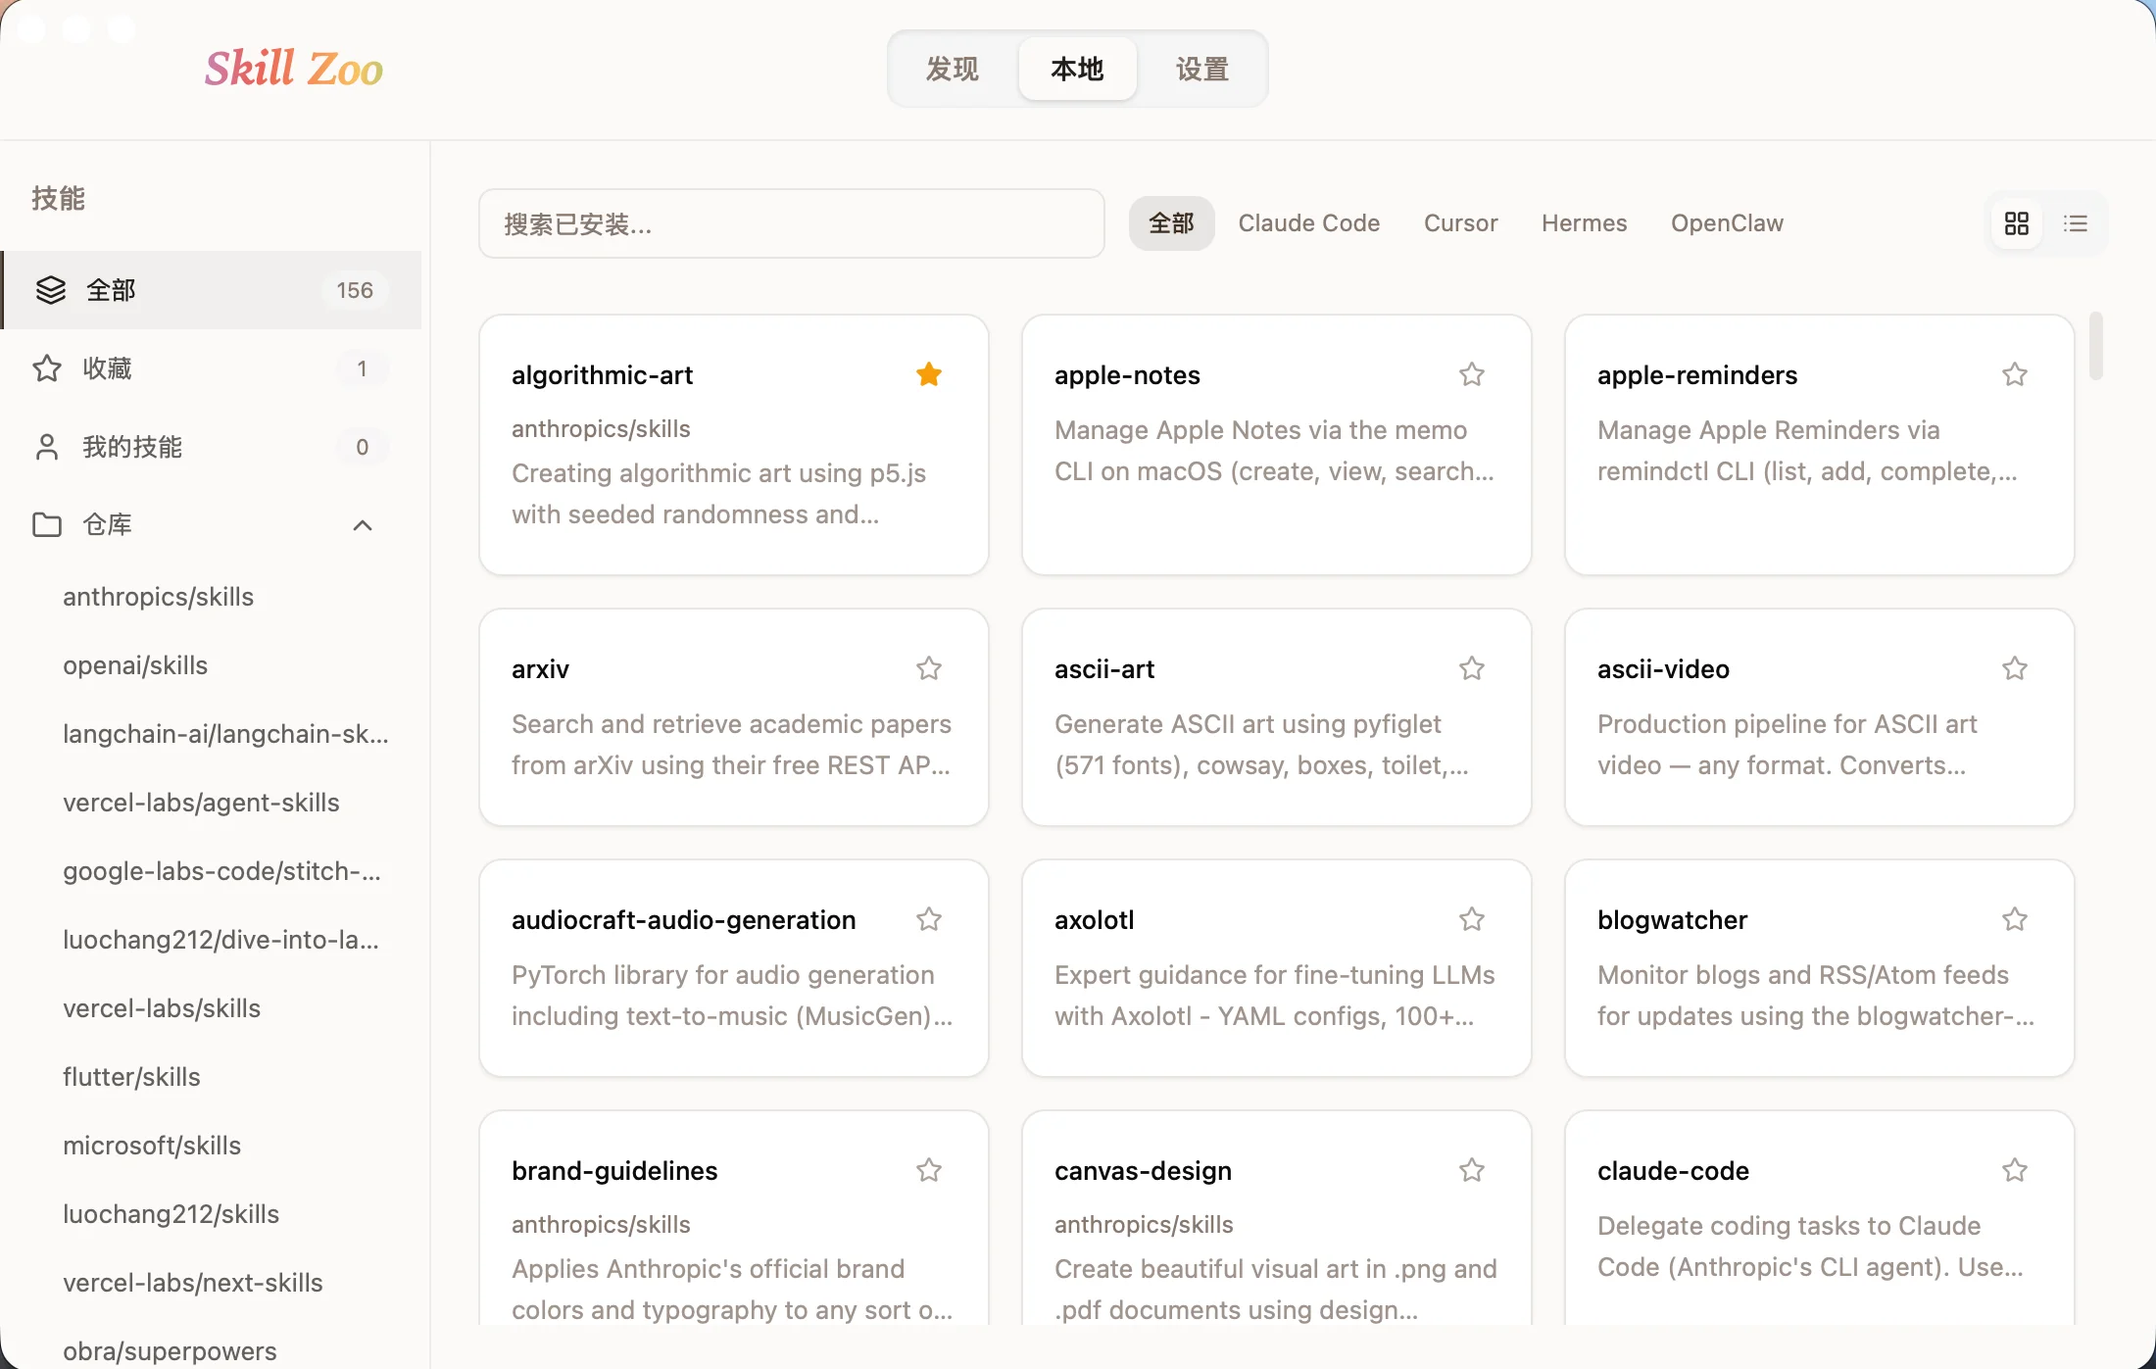
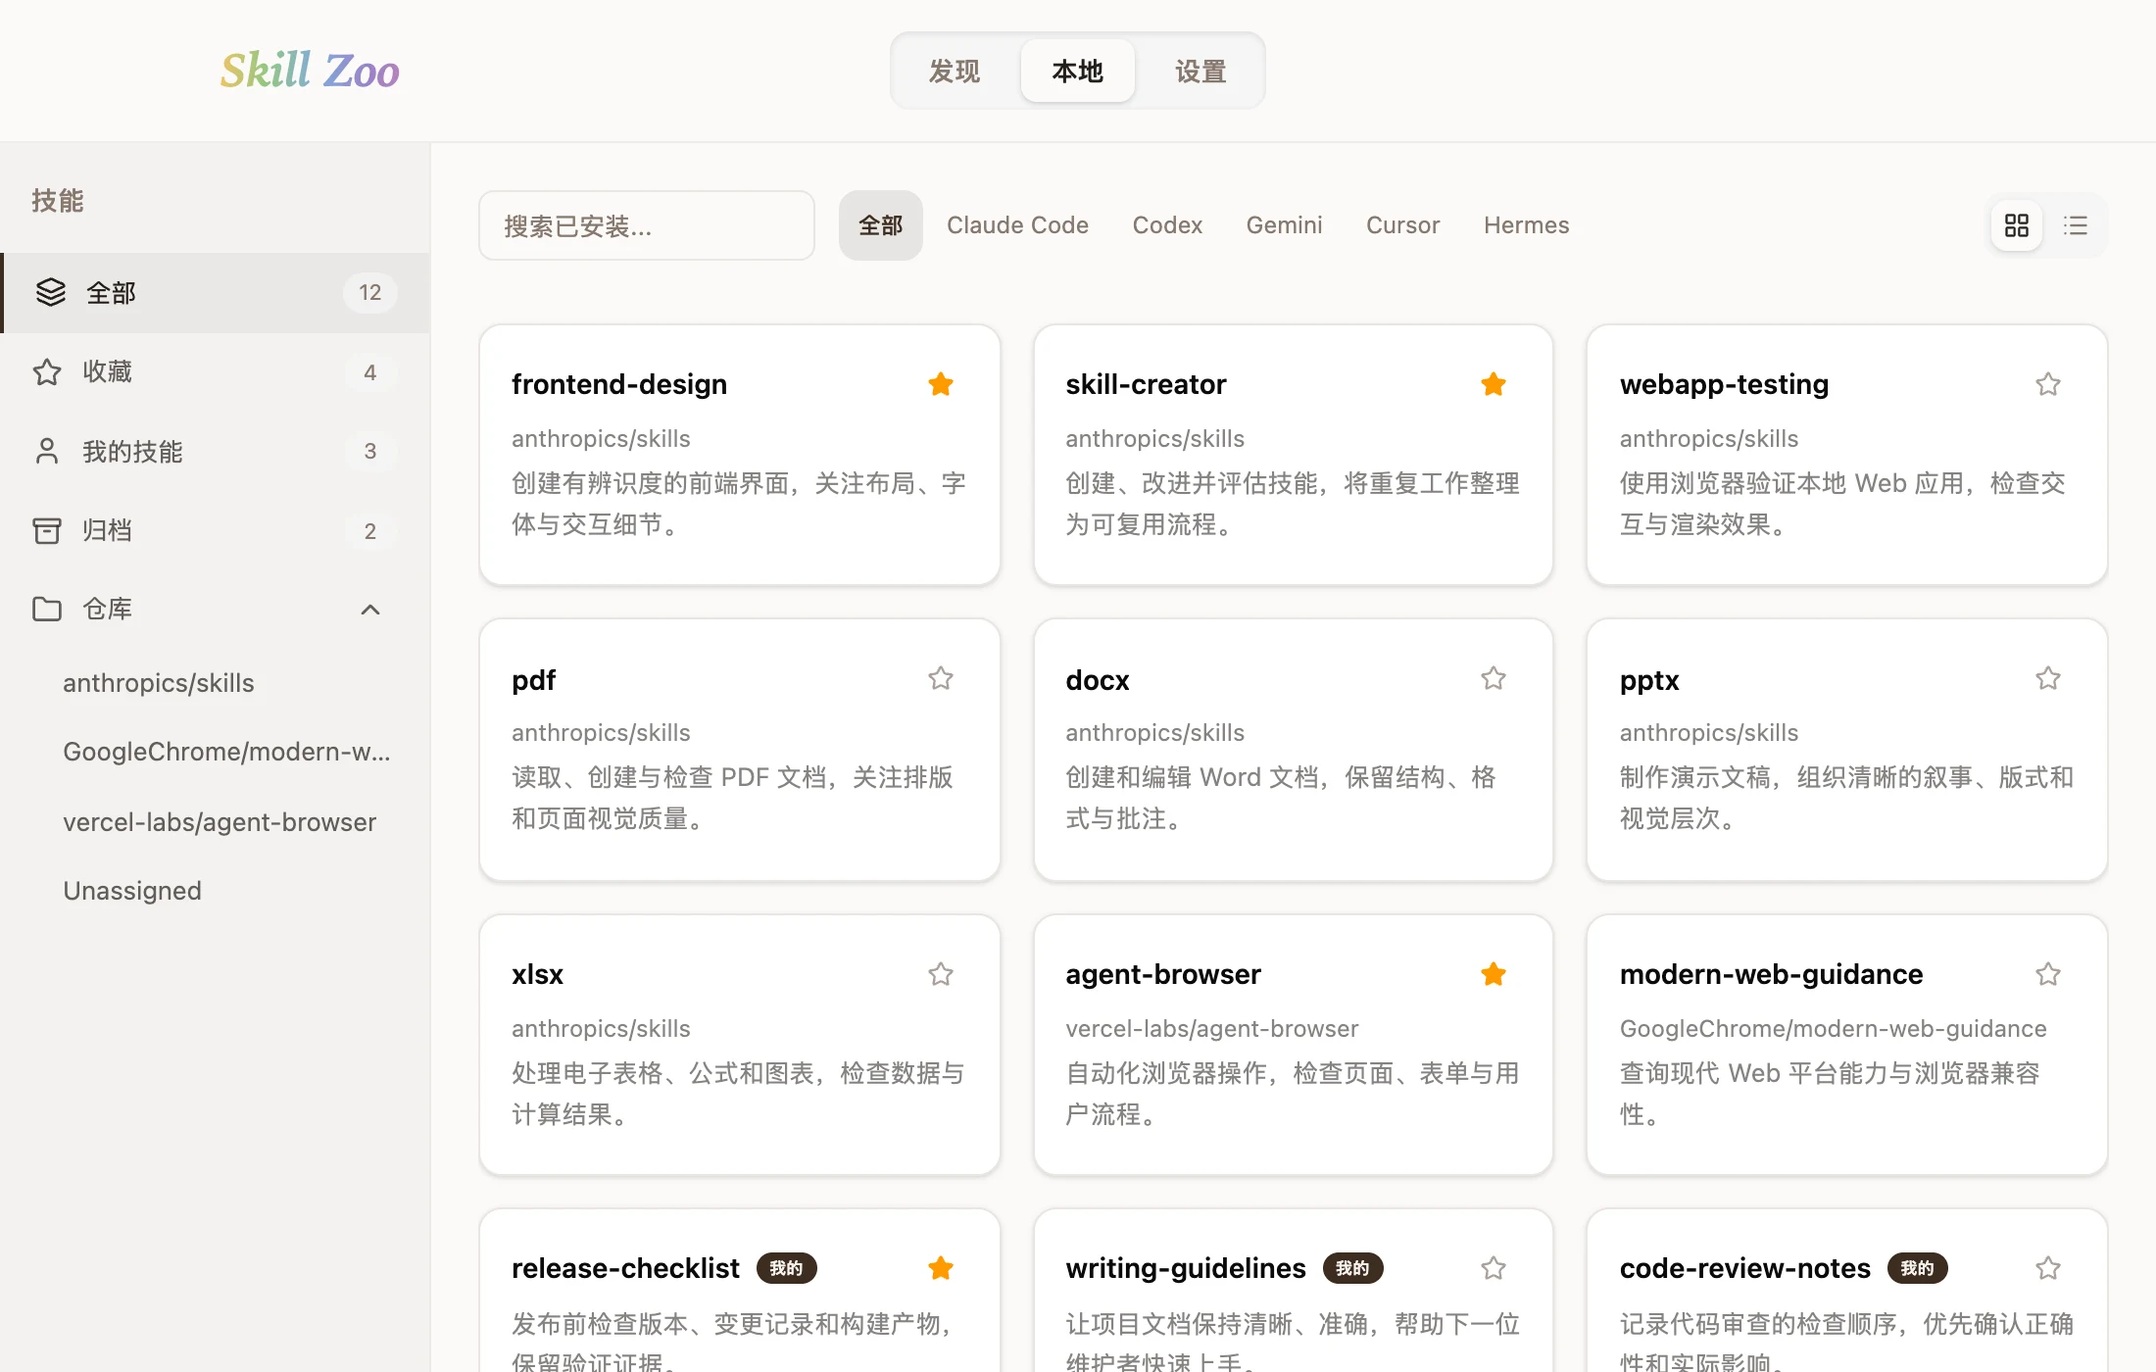
docs: refresh landing page copy and screenshots

diff --git a/docs/index.html b/docs/index.html
@@ -2936,9 +2936,9 @@
 
         <div class="stat-row">
           <div>
-            <div class="stat-num">54</div>
-            <div class="stat-label" data-i18n="stat-commands">
-              Tauri IPC 命令
+            <div class="stat-num">3</div>
+            <div class="stat-label" data-i18n="stat-platforms">
+              桌面平台
             </div>
           </div>
           <div>
@@ -3470,9 +3470,8 @@
             </div>
             <h3 data-i18n="feat-discover">发现与浏览</h3>
             <p data-i18n="feat-discover-d">
-              3D
-              透视卡片轮播展示精选仓库，自动播放，悬停暂停。最近访问记录与推荐仓库列表，多个入口帮你发现感兴趣的
-              Skill。
+              按关键词搜索技能，或输入 GitHub
+              仓库链接直接浏览。精选仓库、推荐列表与最近访问，帮你找到需要的 Skill。
             </p>
           </div>
           <div class="card dark-card">
@@ -3496,8 +3495,8 @@
             </div>
             <h3 data-i18n="feat-install">仓库详情与安装</h3>
             <p data-i18n="feat-install-d">
-              支持批量勾选安装，右侧滑出预览面板即时查看
-              SKILL.md。支持强制刷新下载，ZIP 缓存 24 小时 TTL。
+              安装前预览
+              SKILL.md，批量选择技能与目标编程工具。下载缓存减少重复等待，已安装状态与名称冲突清晰可见。
             </p>
           </div>
           <div class="card dark-card">
@@ -3521,7 +3520,7 @@
             </div>
             <h3 data-i18n="feat-local">本地 Skill 管理</h3>
             <p data-i18n="feat-local-d">
-              侧边栏五类筛选（全部/收藏/归档/我的/一致性审计），网格与列表双视图，支持按名称、仓库、更新时间排序及关键字搜索。
+              统一管理已安装技能与外部导入目录，支持收藏、归档、批量操作和一致性审计。按编程工具或仓库筛选，切换网格与列表视图。
             </p>
           </div>
           <div class="card dark-card">
@@ -3543,8 +3542,8 @@
             </div>
             <h3 data-i18n="feat-editor">Skill 编辑器</h3>
             <p data-i18n="feat-editor-d">
-              四标签页：Markdown 渲染、文本编辑、可拖拽分屏、文件树浏览。YAML
-              frontmatter 自动解析为信息表格，内含安全审计面板。
+              预览、编辑、分屏三种模式，边改边看 Markdown
+              效果。通过侧边文件树浏览和编辑辅助文件，切换或关闭前提醒保存未提交的修改。
             </p>
           </div>
           <div class="card dark-card">
@@ -3594,8 +3593,8 @@
             </div>
             <h3 data-i18n="feat-settings">全局设置</h3>
             <p data-i18n="feat-settings-d">
-              主题切换、语言运行时切换、编程工具路径可见性管理，以及 Skill
-              批量更新与重新扫描，所有配置集中管理。
+              管理主题、语言、内置与自定义编程工具。更新管理器集中检查和更新技能；可选 GitHub Token
+              提高 API 配额，减少仓库信息读取受限。
             </p>
           </div>
         </div>
@@ -3659,12 +3658,11 @@
             <div>
               <h3 data-i18n="d3-title">Tauri IPC 是唯一桥梁</h3>
               <p data-i18n="d3-desc">
-                前端零文件系统访问、零 GitHub API 调用、零 git
-                执行。所有外部交互通过 33 个类型化 Rust Tauri
-                命令完成。路径遍历严格验证，拒绝绝对路径与父目录引用。
+                前端零文件系统访问、零 GitHub API 调用、零 git 执行。所有外部交互通过类型化 Rust
+                Tauri 命令完成。路径遍历严格验证，拒绝绝对路径与父目录引用。
               </p>
               <div style="margin-top: 8px">
-                <span class="tag">33 Tauri 命令</span>
+                <span class="tag">Tauri IPC</span>
                 <span class="tag green">CSP 限制</span>
                 <span class="tag">路径验证</span>
               </div>
@@ -3967,18 +3965,11 @@
           <div data-reveal style="--r-delay: 0ms">
             <h2 data-i18n="cta-title">准备好整理你的技能库了吗？</h2>
             <p class="lead" data-i18n="cta-desc" style="max-width: 100%">
-              为 Claude Code、Codex、OpenCode 等 Coding Agent
-              打造的本地技能管理器。覆盖技能的全生命周期，同时提供桌面 GUI 与
-              npm CLI 两种交互方式。
+              支持 Claude Code、Codex、Cursor、OpenCode 等 20
+              多款编程工具，也可添加自定义工具。通过桌面 App、npm CLI 或本地 Web
+              UI，管理同一份技能文件。
             </p>
-            <div
-              style="
-                display: flex;
-                gap: 24px;
-                margin-top: 24px;
-                flex-wrap: wrap;
-              "
-            >
+            <div style="display: flex; gap: 24px; margin-top: 24px; flex-wrap: wrap">
               <a
                 class="gh-cta-btn"
                 href="https://github.com/luochang212/skill-zoo"
@@ -4307,7 +4298,7 @@
           zh: "三层结构：React 前端通过 Tauri IPC 与 Rust 后端通信。前端零文件系统、零网络访问，所有交互走类型化 Rust 命令；后端管理文件系统与外部服务。",
           en: "Three-layer structure: React frontend communicates with Rust backend via Tauri IPC. Zero filesystem and network access from the frontend — all interactions go through typed Rust commands; the backend manages filesystem and external services.",
         },
-        "stat-commands": { zh: "Tauri IPC 命令", en: "Tauri IPC Commands" },
+        "stat-platforms": { zh: "桌面平台", en: "Desktop Platforms" },
         "stat-langs": {
           zh: "平台语言 (TS + Rust)",
           en: "Languages (TS + Rust)",
@@ -4323,23 +4314,23 @@
         },
         "feat-discover": { zh: "发现与浏览", en: "Discover & Browse" },
         "feat-discover-d": {
-          zh: "3D 透视卡片轮播展示精选仓库，自动播放，悬停暂停。最近访问记录与推荐仓库列表，多个入口帮你发现感兴趣的 Skill。",
-          en: "3D perspective card carousel showcasing curated repos with auto-play. Recent visits and recommended repos help you discover skills.",
+          zh: "按关键词搜索技能，或输入 GitHub 仓库链接直接浏览。精选仓库、推荐列表与最近访问，帮你找到需要的 Skill。",
+          en: "Search skills by keyword or open a GitHub repository URL. Curated repos, recommendations, and recent visits help you find the skills you need.",
         },
         "feat-install": { zh: "仓库详情与安装", en: "Repo Details & Install" },
         "feat-install-d": {
-          zh: "支持批量勾选安装，右侧滑出预览面板即时查看 SKILL.md。支持强制刷新下载，ZIP 缓存 24 小时 TTL。",
-          en: "Batch-select to install, slide-out preview panel for SKILL.md. Force-refresh downloads with 24h ZIP cache TTL.",
+          zh: "安装前预览 SKILL.md，批量选择技能与目标编程工具。下载缓存减少重复等待，已安装状态与名称冲突清晰可见。",
+          en: "Preview SKILL.md before installing, then select skills and target coding agents in batches. Download caching saves repeat waits; installed skills and name conflicts are clearly marked.",
         },
         "feat-local": { zh: "本地 Skill 管理", en: "Local Skill Management" },
         "feat-local-d": {
-          zh: "侧边栏五类筛选（全部/收藏/归档/我的/一致性审计），网格与列表双视图，支持按名称、仓库、更新时间排序及关键字搜索。",
-          en: "Five sidebar filters (all/starred/archived/mine/consistency), grid and list views, sort by name, repo, update time, and keyword search.",
+          zh: "统一管理已安装技能与外部导入目录，支持收藏、归档、批量操作和一致性审计。按编程工具或仓库筛选，切换网格与列表视图。",
+          en: "Manage installed skills and imported folders together, with favorites, archives, batch actions, and consistency checks. Filter by coding agent or repository and switch between grid and list views.",
         },
         "feat-editor": { zh: "Skill 编辑器", en: "Skill Editor" },
         "feat-editor-d": {
-          zh: "三标签页：Markdown 预览、文本编辑、可拖拽分屏，侧边栏文件树快速切换。YAML frontmatter 自动解析为信息表格，内置一致性审计面板。",
-          en: "Three tabs: Markdown preview, text editor, draggable split view, with a sidebar file tree for quick navigation. YAML frontmatter parsed into info table with built-in consistency audit.",
+          zh: "预览、编辑、分屏三种模式，边改边看 Markdown 效果。通过侧边文件树浏览和编辑辅助文件，切换或关闭前提醒保存未提交的修改。",
+          en: "Preview, edit, or use split view to see Markdown changes as you type. Browse and edit supporting files in the sidebar tree, with unsaved-change prompts before switching or closing.",
         },
         "feat-create": { zh: "Skill 创建", en: "Skill Creation" },
         "feat-create-d": {
@@ -4348,8 +4339,8 @@
         },
         "feat-settings": { zh: "全局设置", en: "Global Settings" },
         "feat-settings-d": {
-          zh: "主题切换、语言运行时切换、编程工具路径可见性管理，以及 Skill 批量更新与重新扫描，所有配置集中管理。",
-          en: "Theme, language runtime, coding agent path visibility, batch skill updates and rescan — all settings in one place.",
+          zh: "管理主题、语言、内置与自定义编程工具。更新管理器集中检查和更新技能；可选 GitHub Token 提高 API 配额，减少仓库信息读取受限。",
+          en: "Manage themes, languages, and built-in or custom coding agents. Check and apply skill updates in one manager. An optional GitHub token raises API limits for more reliable repository information.",
         },
         // Design Philosophy
         "design-eyebrow": { zh: "设计哲学", en: "Design Philosophy" },
@@ -4379,8 +4370,8 @@
           en: "Tauri IPC is the only bridge",
         },
         "d3-desc": {
-          zh: "前端零文件系统访问、零 GitHub API 调用、零 git 执行。所有外部交互通过 54 个类型化 Rust Tauri 命令完成。路径遍历严格验证，拒绝绝对路径与父目录引用。",
-          en: "Zero filesystem access, zero GitHub API calls, zero git execution from the frontend. All external interaction goes through 54 typed Rust Tauri commands. Path traversal is strictly validated — absolute paths and parent directory references are rejected.",
+          zh: "前端零文件系统访问、零 GitHub API 调用、零 git 执行。所有外部交互通过类型化 Rust Tauri 命令完成。路径遍历严格验证，拒绝绝对路径与父目录引用。",
+          en: "Zero filesystem access, zero GitHub API calls, zero git execution from the frontend. All external interaction goes through typed Rust Tauri commands. Path traversal is strictly validated — absolute paths and parent directory references are rejected.",
         },
         // UX
         "ux-eyebrow": { zh: "用户体验", en: "User Experience" },
@@ -4455,8 +4446,8 @@
         },
         // macOS steps
         "install-mac-step1": {
-          zh: "打开下载的 <code>.dmg</code> 文件",
-          en: "Open the downloaded <code>.dmg</code> file",
+          zh: "确认系统为 macOS 13.3 或更新版本，打开下载的 <code>.dmg</code> 文件",
+          en: "On macOS 13.3 or later, open the downloaded <code>.dmg</code> file",
         },
         "install-mac-step2": {
           zh: "将 <strong>Skill Zoo</strong> 拖入 <code>Applications</code> 文件夹",
@@ -4518,8 +4509,8 @@
           en: "Ready to organize your skill library?",
         },
         "cta-desc": {
-          zh: "为 Claude Code、Codex、Cursor、OpenCode 等 23 款 Coding Agent 打造的本地技能管理器。覆盖技能的全生命周期，同时提供桌面 GUI 与 npm CLI 两种交互方式。",
-          en: "A local skill manager built for Claude Code, Codex, Cursor, OpenCode and 23 coding agents in total. Covers the full skill lifecycle, with both a desktop GUI and npm CLI.",
+          zh: "支持 Claude Code、Codex、Cursor、OpenCode 等 20 多款编程工具，也可添加自定义工具。通过桌面 App、npm CLI 或本地 Web UI，管理同一份技能文件。",
+          en: "Supports 20+ coding agents including Claude Code, Codex, Cursor, and OpenCode, plus custom agents. Manage the same skill files through the desktop app, npm CLI, or local Web UI.",
         },
       };
 
@@ -4582,12 +4573,15 @@
       const sources = [
         {
           src: "./screenshots/screenshot-1.webp",
-          alt: "Skill Zoo main interface",
+          alt: "Local skill management with agent filters, favorites, and archives",
         },
-        { src: "./screenshots/screenshot-2.webp", alt: "Skill detail view" },
-        { src: "./screenshots/screenshot-3.webp", alt: "Settings page" },
+        { src: "./screenshots/screenshot-2.webp", alt: "Discover skills and GitHub repositories" },
+        {
+          src: "./screenshots/screenshot-3.webp",
+          alt: "Skill editor with file tree and split Markdown preview",
+        },
       ];
-      const ASPECT = 2200 / 1405;
+      const ASPECT = 2200 / 1400;
       const isMobile = () => window.innerWidth < 768;
       const carousel = document.getElementById("carousel");
       const wrapper = document.getElementById("carousel-wrapper");
@@ -4598,7 +4592,7 @@
       const cards = sources.map((s, i) => {
         const card = document.createElement("div");
         card.className = "carousel-card";
-        card.innerHTML = `<img src="${s.src}" alt="${s.alt}" draggable="false">`;
+        card.innerHTML = `<img src="${s.src}" alt="${s.alt}" width="2200" height="1400" draggable="false">`;
         card.addEventListener("click", () => {
           if (i !== current) goTo(i);
         });

diff --git a/docs/screenshots/README.md b/docs/screenshots/README.md
@@ -1,0 +1,26 @@
+# Landing page screenshots
+
+Refreshed on 2026-10-21 from the current desktop frontend on `main`.
+
+| File | View |
+| --- | --- |
+| `screenshot-1.webp` | Local skill management: agent filters, favorites, archives, and repositories |
+| `screenshot-2.webp` | Discover: unified search, bundled banners, and recommended repositories |
+| `screenshot-3.webp` | Skill detail: file tree, Markdown editor, and split preview |
+
+The images were captured in a browser using the real React UI with isolated,
+mocked Tauri IPC responses. They are interface previews, not native-window or
+end-to-end backend captures.
+
+Capture settings: 1100 × 700 CSS pixels, 2× pixel density, light theme, Chinese
+locale. Output: 2200 × 1400 WebP at quality 88. No native window frame was added.
+
+Repository recommendations and banners come from `src-tauri/resources/`. Local
+skill records, descriptions, installation state, and the `release-checklist`
+content are illustrative. No user credentials, private skills, or real home
+paths were used. Screenshot tooling and mocks were kept outside the app source.
+
+When refreshing, use the current UI and the same viewport, theme, and scale.
+Keep all three output dimensions and the carousel aspect ratio in
+`docs/index.html` aligned. Check the resulting page in both languages and at
+desktop and mobile widths.
